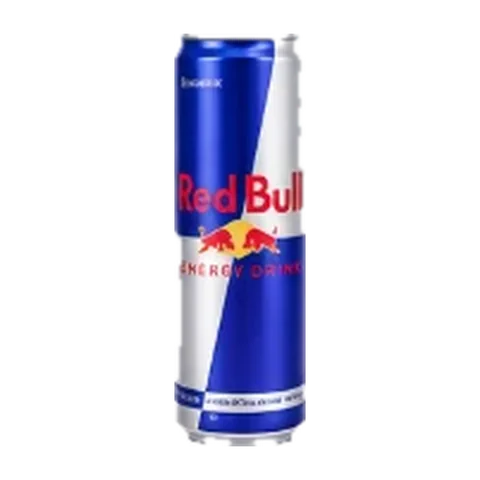
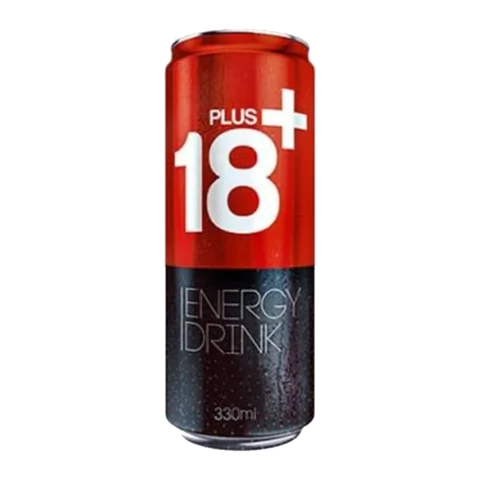
Uzbegim: energetiklar almashtirildi (18+, Flash Up, Adrenaline Rush)
Claude-Session: https://claude.ai/code/session_0158RahCUjwmF3oqXHuWeBEs

Changed region(s): [[0.3438, 0.0625, 0.6562, 0.9375]]

diff --git a/uzbegim/index.html b/uzbegim/index.html
@@ -591,7 +591,7 @@ const CATS=[
  {id:"combo",ic:"combo",e:"🍱",uz:"Kombo",ru:"Комбо"},{id:"burger",ic:"burger",e:"🍔",uz:"Burger",ru:"Бургер"},{id:"lavash",ic:"lavash",e:"🌯",uz:"Lavash & sendvich",ru:"Лаваш & сэндвич"},{id:"hotdog",ic:"hotdog",e:"🌭",uz:"Hot-dog",ru:"Хот-дог"},{id:"pizza",ic:"pizza",e:"🍕",uz:"Pitsa",ru:"Пицца"},
  {id:"chicken",ic:"chicken",e:"🍗",uz:"Tovuq",ru:"Курица"},{id:"snack",ic:"fries",e:"🍟",uz:"Fri",ru:"Фри"},{id:"drink",ic:"drink",e:"🥤",uz:"Ichimlik",ru:"Напитки"},
 ];
-const P=[{"id":"c1","cat":"combo","img":true,"e":"🍱","n":{"uz":"Uzbegim kombo","ru":"Узбегим комбо"},"d":{"uz":"Chizburger, o'rta fri, Coca-Cola 0.5 L","ru":"Чизбургер, фри средний, Coca-Cola 0.5 л"},"v":[{"l":{"uz":"1 kishilik","ru":"На 1 персону"},"s":{"uz":"620 g","ru":"620 г"},"p":49000}],"badge":"hit","old":55000},{"id":"c2","cat":"combo","img":true,"e":"🌯","n":{"uz":"Lavash kombo","ru":"Лаваш комбо"},"d":{"uz":"Go'shtli lavash, o'rta fri, Coca-Cola 0.5 L","ru":"Лаваш с мясом, фри средний, Coca-Cola 0.5 л"},"v":[{"l":{"uz":"1 kishilik","ru":"На 1 персону"},"s":{"uz":"740 g","ru":"740 г"},"p":52000}],"badge":"","old":59000},{"id":"c3","cat":"combo","img":true,"e":"🎉","n":{"uz":"Do'stlar to'plami","ru":"Набор «Друзья»"},"d":{"uz":"4 lavash, 2 katta fri, Coca-Cola va Fanta 1.5 L","ru":"4 лаваша, 2 больших фри, Coca-Cola и Fanta 1.5 л"},"v":[{"l":{"uz":"4 kishilik","ru":"На 4 персоны"},"s":{"uz":"2.1 kg","ru":"2,1 кг"},"p":169000}],"badge":"hot","old":198000},{"id":"c4","cat":"combo","img":true,"e":"👨👩👧","n":{"uz":"Oilaviy kombo","ru":"Семейное комбо"},"d":{"uz":"Pepperoni 35 sm, 8 qanot, 2 fri, Coca-Cola 1.5 L","ru":"Пепперони 35 см, 8 крыльев, 2 фри, Coca-Cola 1.5 л"},"v":[{"l":{"uz":"4–5 kishilik","ru":"На 4–5 персон"},"s":{"uz":"2.4 kg","ru":"2,4 кг"},"p":179000}],"badge":"","old":212000},{"id":"c5","cat":"combo","img":true,"e":"🧒","n":{"uz":"Bolajon kombo","ru":"Детское комбо"},"d":{"uz":"6 naggets, kichik fri, qulupnayli milkshake","ru":"6 наггетсов, фри маленький, клубничный милкшейк"},"v":[{"l":{"uz":"1 bola","ru":"На 1 ребёнка"},"s":{"uz":"450 g","ru":"450 г"},"p":45000}],"badge":"new","old":54000},{"id":"b1","cat":"burger","img":true,"e":"🍔","n":{"uz":"Chizburger","ru":"Чизбургер"},"d":{"uz":"Mol go'shti kotleti, chedder, pomidor, piyoz","ru":"Говяжья котлета, чеддер, томат, лук"},"v":[{"l":{"uz":"Standart","ru":"Стандарт"},"s":{"uz":"200 g","ru":"200 г"},"p":29000},{"l":{"uz":"Dabl","ru":"Дабл"},"s":{"uz":"290 g","ru":"290 г"},"p":39000}],"badge":"hit","old":0},{"id":"b2","cat":"burger","img":true,"e":"🍔","n":{"uz":"Gamburger","ru":"Гамбургер"},"d":{"uz":"Mol go'shti kotleti, salat, pomidor, sous","ru":"Говяжья котлета, салат, томат, соус"},"v":[{"l":{"uz":"Standart","ru":"Стандарт"},"s":{"uz":"190 g","ru":"190 г"},"p":27000},{"l":{"uz":"Dabl","ru":"Дабл"},"s":{"uz":"270 g","ru":"270 г"},"p":36000}],"badge":"","old":0},{"id":"b3","cat":"burger","img":true,"e":"🍔","n":{"uz":"Dabl Uzbegim","ru":"Дабл Узбегим"},"d":{"uz":"2 kotlet, 2 qavat chedder, maxfiy sous","ru":"2 котлеты, двойной чеддер, секретный соус"},"v":[{"l":{"uz":"Standart","ru":"Стандарт"},"s":{"uz":"320 g","ru":"320 г"},"p":45000}],"badge":"hit","old":0},{"id":"b4","cat":"burger","img":true,"e":"🥓","n":{"uz":"Bekon burger","ru":"Бекон бургер"},"d":{"uz":"Kotlet, qarsildoq bekon (mol), chedder, BBQ","ru":"Котлета, хрустящий бекон (говяжий), чеддер, BBQ"},"v":[{"l":{"uz":"Standart","ru":"Стандарт"},"s":{"uz":"240 g","ru":"240 г"},"p":39000}],"badge":"new","old":0},{"id":"b5","cat":"burger","img":true,"e":"🍔","n":{"uz":"Big Uzbegim","ru":"Биг Узбегим"},"d":{"uz":"2 katta kotlet, chedder, bodring, maxsus sous","ru":"2 большие котлеты, чеддер, огурцы, фирменный соус"},"v":[{"l":{"uz":"Standart","ru":"Стандарт"},"s":{"uz":"360 g","ru":"360 г"},"p":49000}],"badge":"","old":0},{"id":"b6","cat":"burger","img":true,"e":"🍗","n":{"uz":"Chiken burger","ru":"Чикен бургер"},"d":{"uz":"Qarsildoq tovuq filesi, salat, mayonez","ru":"Хрустящее куриное филе, салат, майонез"},"v":[{"l":{"uz":"Standart","ru":"Стандарт"},"s":{"uz":"210 g","ru":"210 г"},"p":31000},{"l":{"uz":"Dabl","ru":"Дабл"},"s":{"uz":"300 g","ru":"300 г"},"p":41000}],"badge":"","old":0},{"id":"b7","cat":"burger","img":true,"e":"🌶","n":{"uz":"Achchiq chiken","ru":"Острый чикен"},"d":{"uz":"Achchiq panirovkada tovuq, halapenyo sous","ru":"Курица в острой панировке, соус халапеньо"},"v":[{"l":{"uz":"Standart","ru":"Стандарт"},"s":{"uz":"220 g","ru":"220 г"},"p":33000}],"badge":"hot","old":0},{"id":"b8","cat":"burger","img":true,"e":"🍗","n":{"uz":"Krispi chiken","ru":"Криспи чикен"},"d":{"uz":"Katta qarsildoq file, pishloq, salat","ru":"Большое хрустящее филе, сыр, салат"},"v":[{"l":{"uz":"Standart","ru":"Стандарт"},"s":{"uz":"230 g","ru":"230 г"},"p":34000}],"badge":"","old":0},{"id":"l1","cat":"lavash","img":true,"e":"🌯","n":{"uz":"Go'shtli lavash","ru":"Лаваш с мясом"},"d":{"uz":"Mol go'shti, chipslar, pomidor, sous","ru":"Говядина, чипсы, томаты, соус"},"v":[{"l":{"uz":"Mini","ru":"Мини"},"s":{"uz":"220 g","ru":"220 г"},"p":26000},{"l":{"uz":"Standart","ru":"Стандарт"},"s":{"uz":"320 g","ru":"320 г"},"p":33000},{"l":{"uz":"Katta","ru":"Большой"},"s":{"uz":"420 g","ru":"420 г"},"p":40000}],"badge":"hit","old":0},{"id":"l2","cat":"lavash","img":true,"e":"🌯","n":{"uz":"Tovuqli lavash","ru":"Лаваш с курицей"},"d":{"uz":"Tovuq, bodring, pomidor, pishloqli sous","ru":"Курица, огурцы, томаты, сырный соус"},"v":[{"l":{"uz":"Mini","ru":"Мини"},"s":{"uz":"220 g","ru":"220 г"},"p":23000},{"l":{"uz":"Standart","ru":"Стандарт"},"s":{"uz":"320 g","ru":"320 г"},"p":30000},{"l":{"uz":"Katta","ru":"Большой"},"s":{"uz":"420 g","ru":"420 г"},"p":36000}],"badge":"","old":0},{"id":"l3","cat":"lavash","img":true,"e":"🧀","n":{"uz":"Pishloqli lavash","ru":"Сырный лаваш"},"d":{"uz":"Go'sht, ikki baravar pishloq, fri ichida","ru":"Мясо, двойной сыр, фри внутри"},"v":[{"l":{"uz":"Standart","ru":"Стандарт"},"s":{"uz":"340 g","ru":"340 г"},"p":35000},{"l":{"uz":"Katta","ru":"Большой"},"s":{"uz":"440 g","ru":"440 г"},"p":42000}],"badge":"","old":0},{"id":"l4","cat":"lavash","img":true,"e":"🌶","n":{"uz":"Achchiq lavash","ru":"Острый лаваш"},"d":{"uz":"Go'sht, achchiq qalampir, maxsus sous","ru":"Мясо, острый перец, фирменный соус"},"v":[{"l":{"uz":"Standart","ru":"Стандарт"},"s":{"uz":"320 g","ru":"320 г"},"p":34000},{"l":{"uz":"Katta","ru":"Большой"},"s":{"uz":"420 g","ru":"420 г"},"p":41000}],"badge":"hot","old":0},{"id":"l5","cat":"lavash","img":true,"e":"🌯","n":{"uz":"Donar","ru":"Донар"},"d":{"uz":"Go'sht, sabzavotlar, sarimsoqli sous","ru":"Мясо, овощи, чесночный соус"},"v":[{"l":{"uz":"Standart","ru":"Стандарт"},"s":{"uz":"300 g","ru":"300 г"},"p":32000},{"l":{"uz":"Katta","ru":"Большой"},"s":{"uz":"400 g","ru":"400 г"},"p":39000}],"badge":"","old":0},{"id":"l6","cat":"lavash","img":true,"e":"🫓","n":{"uz":"Kesadilya","ru":"Кесадилья"},"d":{"uz":"Tovuq, chedder, qalampir, tortilya","ru":"Курица, чеддер, перец, тортилья"},"v":[{"l":{"uz":"Standart","ru":"Стандарт"},"s":{"uz":"260 g","ru":"260 г"},"p":33000}],"badge":"new","old":0},{"id":"l7","cat":"lavash","img":true,"e":"🥪","n":{"uz":"Klab sendvich","ru":"Клаб сэндвич"},"d":{"uz":"Tovuq, mol go'shti vetchinasi, pishloq, salat","ru":"Курица, говяжья ветчина, сыр, салат"},"v":[{"l":{"uz":"Standart","ru":"Стандарт"},"s":{"uz":"250 g","ru":"250 г"},"p":32000}],"badge":"","old":0},{"id":"l8","cat":"lavash","img":true,"e":"🥪","n":{"uz":"Tost sendvich","ru":"Тост сэндвич"},"d":{"uz":"Qovurilgan non, vetchina, pishloq","ru":"Поджаренный хлеб, ветчина, сыр"},"v":[{"l":{"uz":"Standart","ru":"Стандарт"},"s":{"uz":"210 g","ru":"210 г"},"p":26000}],"badge":"","old":0},{"id":"h1","cat":"hotdog","img":true,"e":"🌭","n":{"uz":"Klassik hot-dog","ru":"Классический хот-дог"},"d":{"uz":"Sosiska, ketchup, xantal","ru":"Сосиска, кетчуп, горчица"},"v":[{"l":{"uz":"Standart","ru":"Стандарт"},"s":{"uz":"160 g","ru":"160 г"},"p":15000},{"l":{"uz":"Dabl","ru":"Дабл"},"s":{"uz":"240 g","ru":"240 г"},"p":22000}],"badge":"","old":0},{"id":"h2","cat":"hotdog","img":true,"e":"🌭","n":{"uz":"Pishloqli hot-dog","ru":"Сырный хот-дог"},"d":{"uz":"Sosiska, pishloqli sous, qovurilgan piyoz","ru":"Сосиска, сырный соус, жареный лук"},"v":[{"l":{"uz":"Standart","ru":"Стандарт"},"s":{"uz":"190 g","ru":"190 г"},"p":19000}],"badge":"hit","old":0},{"id":"h3","cat":"hotdog","img":true,"e":"🌭","n":{"uz":"Hot-dog XXL","ru":"Хот-дог XXL"},"d":{"uz":"Uzun sosiska, ketchup, xantal, bodring","ru":"Длинная сосиска, кетчуп, горчица, огурцы"},"v":[{"l":{"uz":"Standart","ru":"Стандарт"},"s":{"uz":"250 g","ru":"250 г"},"p":24000}],"badge":"","old":0},{"id":"p1","cat":"pizza","img":true,"e":"🍕","n":{"uz":"Pepperoni","ru":"Пепперони"},"d":{"uz":"Pepperoni (mol), motsarella, tomat sousi","ru":"Пепперони (говяжья), моцарелла, томатный соус"},"v":[{"l":{"uz":"25 sm","ru":"25 см"},"s":{"uz":"520 g","ru":"520 г"},"p":55000},{"l":{"uz":"30 sm","ru":"30 см"},"s":{"uz":"720 g","ru":"720 г"},"p":72000},{"l":{"uz":"35 sm","ru":"35 см"},"s":{"uz":"950 g","ru":"950 г"},"p":89000}],"badge":"hit","old":0},{"id":"p2","cat":"pizza","img":true,"e":"🍕","n":{"uz":"Margarita","ru":"Маргарита"},"d":{"uz":"Motsarella, pomidor, rayhon","ru":"Моцарелла, томаты, базилик"},"v":[{"l":{"uz":"25 sm","ru":"25 см"},"s":{"uz":"480 g","ru":"480 г"},"p":49000},{"l":{"uz":"30 sm","ru":"30 см"},"s":{"uz":"650 g","ru":"650 г"},"p":65000},{"l":{"uz":"35 sm","ru":"35 см"},"s":{"uz":"880 g","ru":"880 г"},"p":79000}],"badge":"","old":0},{"id":"k1","cat":"chicken","img":true,"e":"🍗","n":{"uz":"Qanotlar BBQ","ru":"Крылья BBQ"},"d":{"uz":"Qarsildoq qanotlar, BBQ sousida","ru":"Хрустящие крылья в соусе BBQ"},"v":[{"l":{"uz":"4 dona","ru":"4 шт"},"s":{"uz":"180 g","ru":"180 г"},"p":26000},{"l":{"uz":"8 dona","ru":"8 шт"},"s":{"uz":"360 g","ru":"360 г"},"p":48000},{"l":{"uz":"12 dona","ru":"12 шт"},"s":{"uz":"540 g","ru":"540 г"},"p":68000}],"badge":"hot","old":0},{"id":"k2","cat":"chicken","img":true,"e":"🍗","n":{"uz":"Strips","ru":"Стрипсы"},"d":{"uz":"Qarsildoq tovuq filesi","ru":"Хрустящее куриное филе"},"v":[{"l":{"uz":"3 dona","ru":"3 шт"},"s":{"uz":"120 g","ru":"120 г"},"p":22000},{"l":{"uz":"6 dona","ru":"6 шт"},"s":{"uz":"240 g","ru":"240 г"},"p":41000},{"l":{"uz":"9 dona","ru":"9 шт"},"s":{"uz":"360 g","ru":"360 г"},"p":58000}],"badge":"","old":0},{"id":"k3","cat":"chicken","img":true,"e":"🔥","n":{"uz":"Achchiq qanotlar","ru":"Острые крылья"},"d":{"uz":"Achchiq glazurda qanotlar","ru":"Крылья в острой глазури"},"v":[{"l":{"uz":"6 dona","ru":"6 шт"},"s":{"uz":"270 g","ru":"270 г"},"p":38000},{"l":{"uz":"12 dona","ru":"12 шт"},"s":{"uz":"540 g","ru":"540 г"},"p":70000}],"badge":"hot","old":0},{"id":"n1","cat":"snack","img":true,"e":"🍟","n":{"uz":"Kartoshka fri","ru":"Картофель фри"},"d":{"uz":"Oltin rangli va qarsildoq","ru":"Золотистый и хрустящий"},"v":[{"l":{"uz":"Kichik","ru":"Маленький"},"s":{"uz":"90 g","ru":"90 г"},"p":13000},{"l":{"uz":"O'rta","ru":"Средний"},"s":{"uz":"120 g","ru":"120 г"},"p":16000},{"l":{"uz":"Katta","ru":"Большой"},"s":{"uz":"160 g","ru":"160 г"},"p":19000}],"badge":"hit","old":0},{"id":"n2","cat":"snack","img":true,"e":"🍟","n":{"uz":"Fri Max","ru":"Фри Макс"},"d":{"uz":"Katta qutida, 2 ta sous bilan","ru":"В большой коробке, с 2 соусами"},"v":[{"l":{"uz":"Standart","ru":"Стандарт"},"s":{"uz":"220 g","ru":"220 г"},"p":24000}],"badge":"","old":0},{"id":"n3","cat":"snack","img":true,"e":"🍗","n":{"uz":"Naggets","ru":"Наггетсы"},"d":{"uz":"Tovuq naggetslari, sous bilan","ru":"Куриные наггетсы, с соусом"},"v":[{"l":{"uz":"6 dona","ru":"6 шт"},"s":{"uz":"110 g","ru":"110 г"},"p":19000},{"l":{"uz":"9 dona","ru":"9 шт"},"s":{"uz":"165 g","ru":"165 г"},"p":26000},{"l":{"uz":"12 dona","ru":"12 шт"},"s":{"uz":"220 g","ru":"220 г"},"p":33000}],"badge":"","old":0},{"id":"n4","cat":"snack","img":true,"e":"🧅","n":{"uz":"Piyoz halqalari","ru":"Луковые кольца"},"d":{"uz":"Qarsildoq, sous bilan","ru":"Хрустящие, с соусом"},"v":[{"l":{"uz":"8 dona","ru":"8 шт"},"s":{"uz":"120 g","ru":"120 г"},"p":18000},{"l":{"uz":"12 dona","ru":"12 шт"},"s":{"uz":"180 g","ru":"180 г"},"p":25000}],"badge":"","old":0},{"id":"d1","cat":"drink","img":true,"e":"🥤","n":{"uz":"Coca-Cola","ru":"Coca-Cola"},"d":{"uz":"Gazli ichimlik","ru":"Газированный напиток"},"v":[{"l":{"uz":"0.5 L","ru":"0.5 л"},"s":null,"p":10000},{"l":{"uz":"1 L","ru":"1 л"},"s":null,"p":14000},{"l":{"uz":"1.5 L","ru":"1.5 л"},"s":null,"p":17000}],"badge":"hit","old":0},{"id":"d2","cat":"drink","img":true,"e":"🥤","n":{"uz":"Fanta","ru":"Fanta"},"d":{"uz":"Apelsin ta'mli","ru":"Со вкусом апельсина"},"v":[{"l":{"uz":"0.5 L","ru":"0.5 л"},"s":null,"p":10000},{"l":{"uz":"1 L","ru":"1 л"},"s":null,"p":14000},{"l":{"uz":"1.5 L","ru":"1.5 л"},"s":null,"p":17000}],"badge":"","old":0},{"id":"d3","cat":"drink","img":true,"e":"🥤","n":{"uz":"Sprite","ru":"Sprite"},"d":{"uz":"Limon va laym ta'mli","ru":"Со вкусом лимона и лайма"},"v":[{"l":{"uz":"0.5 L","ru":"0.5 л"},"s":null,"p":10000},{"l":{"uz":"1 L","ru":"1 л"},"s":null,"p":14000},{"l":{"uz":"1.5 L","ru":"1.5 л"},"s":null,"p":17000}],"badge":"","old":0},{"id":"d4","cat":"drink","img":true,"e":"🥤","n":{"uz":"Pepsi","ru":"Pepsi"},"d":{"uz":"Gazli ichimlik","ru":"Газированный напиток"},"v":[{"l":{"uz":"0.5 L","ru":"0.5 л"},"s":null,"p":9000},{"l":{"uz":"1 L","ru":"1 л"},"s":null,"p":13000},{"l":{"uz":"1.5 L","ru":"1.5 л"},"s":null,"p":16000}],"badge":"","old":0},{"id":"d5","cat":"drink","img":true,"e":"🥤","n":{"uz":"7UP","ru":"7UP"},"d":{"uz":"Limon-laym","ru":"Лимон-лайм"},"v":[{"l":{"uz":"0.5 L","ru":"0.5 л"},"s":null,"p":9000},{"l":{"uz":"1 L","ru":"1 л"},"s":null,"p":13000},{"l":{"uz":"1.5 L","ru":"1.5 л"},"s":null,"p":16000}],"badge":"","old":0},{"id":"d7","cat":"drink","img":true,"e":"💧","n":{"uz":"Hydrolife","ru":"Hydrolife"},"d":{"uz":"Gazsiz suv","ru":"Вода без газа"},"v":[{"l":{"uz":"0.5 L","ru":"0.5 л"},"s":null,"p":4000},{"l":{"uz":"1 L","ru":"1 л"},"s":null,"p":6000},{"l":{"uz":"1.5 L","ru":"1.5 л"},"s":null,"p":7000}],"badge":"","old":0},{"id":"d8","cat":"drink","img":true,"e":"💧","n":{"uz":"BonAqua","ru":"BonAqua"},"d":{"uz":"Gazsiz suv","ru":"Вода без газа"},"v":[{"l":{"uz":"0.5 L","ru":"0.5 л"},"s":null,"p":5000},{"l":{"uz":"1 L","ru":"1 л"},"s":null,"p":7000},{"l":{"uz":"1.5 L","ru":"1.5 л"},"s":null,"p":8000}],"badge":"","old":0},{"id":"d9","cat":"drink","img":true,"e":"🧃","n":{"uz":"Rich apelsin","ru":"Rich апельсин"},"d":{"uz":"100% sharbat","ru":"100% сок"},"v":[{"l":{"uz":"1 L","ru":"1 л"},"s":null,"p":22000}],"badge":"","old":0},{"id":"d10","cat":"drink","img":true,"e":"🧃","n":{"uz":"Sandora apelsin","ru":"Sandora апельсин"},"d":{"uz":"Sharbat","ru":"Сок"},"v":[{"l":{"uz":"0.95 L","ru":"0.95 л"},"s":null,"p":19000}],"badge":"","old":0},{"id":"d11","cat":"drink","img":true,"e":"⚡","n":{"uz":"Red Bull","ru":"Red Bull"},"d":{"uz":"Energetik ichimlik","ru":"Энергетический напиток"},"v":[{"l":{"uz":"0.25 L","ru":"0.25 л"},"s":null,"p":21000},{"l":{"uz":"0.473 L","ru":"0.473 л"},"s":null,"p":32000}],"badge":"","old":0},{"id":"d12","cat":"drink","img":true,"e":"⚡","n":{"uz":"Monster","ru":"Monster"},"d":{"uz":"Energetik ichimlik","ru":"Энергетический напиток"},"v":[{"l":{"uz":"0.5 L","ru":"0.5 л"},"s":null,"p":25000}],"badge":"","old":0}].map((p,i)=>({...p,rate:(4.5+((i*7)%5)/10).toFixed(1),votes:80+(i*37)%400}));
+const P=[{"id":"c1","cat":"combo","img":true,"e":"🍱","n":{"uz":"Uzbegim kombo","ru":"Узбегим комбо"},"d":{"uz":"Chizburger, o'rta fri, Coca-Cola 0.5 L","ru":"Чизбургер, фри средний, Coca-Cola 0.5 л"},"v":[{"l":{"uz":"1 kishilik","ru":"На 1 персону"},"s":{"uz":"620 g","ru":"620 г"},"p":49000}],"badge":"hit","old":55000},{"id":"c2","cat":"combo","img":true,"e":"🌯","n":{"uz":"Lavash kombo","ru":"Лаваш комбо"},"d":{"uz":"Go'shtli lavash, o'rta fri, Coca-Cola 0.5 L","ru":"Лаваш с мясом, фри средний, Coca-Cola 0.5 л"},"v":[{"l":{"uz":"1 kishilik","ru":"На 1 персону"},"s":{"uz":"740 g","ru":"740 г"},"p":52000}],"badge":"","old":59000},{"id":"c3","cat":"combo","img":true,"e":"🎉","n":{"uz":"Do'stlar to'plami","ru":"Набор «Друзья»"},"d":{"uz":"4 lavash, 2 katta fri, Coca-Cola va Fanta 1.5 L","ru":"4 лаваша, 2 больших фри, Coca-Cola и Fanta 1.5 л"},"v":[{"l":{"uz":"4 kishilik","ru":"На 4 персоны"},"s":{"uz":"2.1 kg","ru":"2,1 кг"},"p":169000}],"badge":"hot","old":198000},{"id":"c4","cat":"combo","img":true,"e":"👨👩👧","n":{"uz":"Oilaviy kombo","ru":"Семейное комбо"},"d":{"uz":"Pepperoni 35 sm, 8 qanot, 2 fri, Coca-Cola 1.5 L","ru":"Пепперони 35 см, 8 крыльев, 2 фри, Coca-Cola 1.5 л"},"v":[{"l":{"uz":"4–5 kishilik","ru":"На 4–5 персон"},"s":{"uz":"2.4 kg","ru":"2,4 кг"},"p":179000}],"badge":"","old":212000},{"id":"c5","cat":"combo","img":true,"e":"🧒","n":{"uz":"Bolajon kombo","ru":"Детское комбо"},"d":{"uz":"6 naggets, kichik fri, qulupnayli milkshake","ru":"6 наггетсов, фри маленький, клубничный милкшейк"},"v":[{"l":{"uz":"1 bola","ru":"На 1 ребёнка"},"s":{"uz":"450 g","ru":"450 г"},"p":45000}],"badge":"new","old":54000},{"id":"b1","cat":"burger","img":true,"e":"🍔","n":{"uz":"Chizburger","ru":"Чизбургер"},"d":{"uz":"Mol go'shti kotleti, chedder, pomidor, piyoz","ru":"Говяжья котлета, чеддер, томат, лук"},"v":[{"l":{"uz":"Standart","ru":"Стандарт"},"s":{"uz":"200 g","ru":"200 г"},"p":29000},{"l":{"uz":"Dabl","ru":"Дабл"},"s":{"uz":"290 g","ru":"290 г"},"p":39000}],"badge":"hit","old":0},{"id":"b2","cat":"burger","img":true,"e":"🍔","n":{"uz":"Gamburger","ru":"Гамбургер"},"d":{"uz":"Mol go'shti kotleti, salat, pomidor, sous","ru":"Говяжья котлета, салат, томат, соус"},"v":[{"l":{"uz":"Standart","ru":"Стандарт"},"s":{"uz":"190 g","ru":"190 г"},"p":27000},{"l":{"uz":"Dabl","ru":"Дабл"},"s":{"uz":"270 g","ru":"270 г"},"p":36000}],"badge":"","old":0},{"id":"b3","cat":"burger","img":true,"e":"🍔","n":{"uz":"Dabl Uzbegim","ru":"Дабл Узбегим"},"d":{"uz":"2 kotlet, 2 qavat chedder, maxfiy sous","ru":"2 котлеты, двойной чеддер, секретный соус"},"v":[{"l":{"uz":"Standart","ru":"Стандарт"},"s":{"uz":"320 g","ru":"320 г"},"p":45000}],"badge":"hit","old":0},{"id":"b4","cat":"burger","img":true,"e":"🥓","n":{"uz":"Bekon burger","ru":"Бекон бургер"},"d":{"uz":"Kotlet, qarsildoq bekon (mol), chedder, BBQ","ru":"Котлета, хрустящий бекон (говяжий), чеддер, BBQ"},"v":[{"l":{"uz":"Standart","ru":"Стандарт"},"s":{"uz":"240 g","ru":"240 г"},"p":39000}],"badge":"new","old":0},{"id":"b5","cat":"burger","img":true,"e":"🍔","n":{"uz":"Big Uzbegim","ru":"Биг Узбегим"},"d":{"uz":"2 katta kotlet, chedder, bodring, maxsus sous","ru":"2 большие котлеты, чеддер, огурцы, фирменный соус"},"v":[{"l":{"uz":"Standart","ru":"Стандарт"},"s":{"uz":"360 g","ru":"360 г"},"p":49000}],"badge":"","old":0},{"id":"b6","cat":"burger","img":true,"e":"🍗","n":{"uz":"Chiken burger","ru":"Чикен бургер"},"d":{"uz":"Qarsildoq tovuq filesi, salat, mayonez","ru":"Хрустящее куриное филе, салат, майонез"},"v":[{"l":{"uz":"Standart","ru":"Стандарт"},"s":{"uz":"210 g","ru":"210 г"},"p":31000},{"l":{"uz":"Dabl","ru":"Дабл"},"s":{"uz":"300 g","ru":"300 г"},"p":41000}],"badge":"","old":0},{"id":"b7","cat":"burger","img":true,"e":"🌶","n":{"uz":"Achchiq chiken","ru":"Острый чикен"},"d":{"uz":"Achchiq panirovkada tovuq, halapenyo sous","ru":"Курица в острой панировке, соус халапеньо"},"v":[{"l":{"uz":"Standart","ru":"Стандарт"},"s":{"uz":"220 g","ru":"220 г"},"p":33000}],"badge":"hot","old":0},{"id":"b8","cat":"burger","img":true,"e":"🍗","n":{"uz":"Krispi chiken","ru":"Криспи чикен"},"d":{"uz":"Katta qarsildoq file, pishloq, salat","ru":"Большое хрустящее филе, сыр, салат"},"v":[{"l":{"uz":"Standart","ru":"Стандарт"},"s":{"uz":"230 g","ru":"230 г"},"p":34000}],"badge":"","old":0},{"id":"l1","cat":"lavash","img":true,"e":"🌯","n":{"uz":"Go'shtli lavash","ru":"Лаваш с мясом"},"d":{"uz":"Mol go'shti, chipslar, pomidor, sous","ru":"Говядина, чипсы, томаты, соус"},"v":[{"l":{"uz":"Mini","ru":"Мини"},"s":{"uz":"220 g","ru":"220 г"},"p":26000},{"l":{"uz":"Standart","ru":"Стандарт"},"s":{"uz":"320 g","ru":"320 г"},"p":33000},{"l":{"uz":"Katta","ru":"Большой"},"s":{"uz":"420 g","ru":"420 г"},"p":40000}],"badge":"hit","old":0},{"id":"l2","cat":"lavash","img":true,"e":"🌯","n":{"uz":"Tovuqli lavash","ru":"Лаваш с курицей"},"d":{"uz":"Tovuq, bodring, pomidor, pishloqli sous","ru":"Курица, огурцы, томаты, сырный соус"},"v":[{"l":{"uz":"Mini","ru":"Мини"},"s":{"uz":"220 g","ru":"220 г"},"p":23000},{"l":{"uz":"Standart","ru":"Стандарт"},"s":{"uz":"320 g","ru":"320 г"},"p":30000},{"l":{"uz":"Katta","ru":"Большой"},"s":{"uz":"420 g","ru":"420 г"},"p":36000}],"badge":"","old":0},{"id":"l3","cat":"lavash","img":true,"e":"🧀","n":{"uz":"Pishloqli lavash","ru":"Сырный лаваш"},"d":{"uz":"Go'sht, ikki baravar pishloq, fri ichida","ru":"Мясо, двойной сыр, фри внутри"},"v":[{"l":{"uz":"Standart","ru":"Стандарт"},"s":{"uz":"340 g","ru":"340 г"},"p":35000},{"l":{"uz":"Katta","ru":"Большой"},"s":{"uz":"440 g","ru":"440 г"},"p":42000}],"badge":"","old":0},{"id":"l4","cat":"lavash","img":true,"e":"🌶","n":{"uz":"Achchiq lavash","ru":"Острый лаваш"},"d":{"uz":"Go'sht, achchiq qalampir, maxsus sous","ru":"Мясо, острый перец, фирменный соус"},"v":[{"l":{"uz":"Standart","ru":"Стандарт"},"s":{"uz":"320 g","ru":"320 г"},"p":34000},{"l":{"uz":"Katta","ru":"Большой"},"s":{"uz":"420 g","ru":"420 г"},"p":41000}],"badge":"hot","old":0},{"id":"l5","cat":"lavash","img":true,"e":"🌯","n":{"uz":"Donar","ru":"Донар"},"d":{"uz":"Go'sht, sabzavotlar, sarimsoqli sous","ru":"Мясо, овощи, чесночный соус"},"v":[{"l":{"uz":"Standart","ru":"Стандарт"},"s":{"uz":"300 g","ru":"300 г"},"p":32000},{"l":{"uz":"Katta","ru":"Большой"},"s":{"uz":"400 g","ru":"400 г"},"p":39000}],"badge":"","old":0},{"id":"l6","cat":"lavash","img":true,"e":"🫓","n":{"uz":"Kesadilya","ru":"Кесадилья"},"d":{"uz":"Tovuq, chedder, qalampir, tortilya","ru":"Курица, чеддер, перец, тортилья"},"v":[{"l":{"uz":"Standart","ru":"Стандарт"},"s":{"uz":"260 g","ru":"260 г"},"p":33000}],"badge":"new","old":0},{"id":"l7","cat":"lavash","img":true,"e":"🥪","n":{"uz":"Klab sendvich","ru":"Клаб сэндвич"},"d":{"uz":"Tovuq, mol go'shti vetchinasi, pishloq, salat","ru":"Курица, говяжья ветчина, сыр, салат"},"v":[{"l":{"uz":"Standart","ru":"Стандарт"},"s":{"uz":"250 g","ru":"250 г"},"p":32000}],"badge":"","old":0},{"id":"l8","cat":"lavash","img":true,"e":"🥪","n":{"uz":"Tost sendvich","ru":"Тост сэндвич"},"d":{"uz":"Qovurilgan non, vetchina, pishloq","ru":"Поджаренный хлеб, ветчина, сыр"},"v":[{"l":{"uz":"Standart","ru":"Стандарт"},"s":{"uz":"210 g","ru":"210 г"},"p":26000}],"badge":"","old":0},{"id":"h1","cat":"hotdog","img":true,"e":"🌭","n":{"uz":"Klassik hot-dog","ru":"Классический хот-дог"},"d":{"uz":"Sosiska, ketchup, xantal","ru":"Сосиска, кетчуп, горчица"},"v":[{"l":{"uz":"Standart","ru":"Стандарт"},"s":{"uz":"160 g","ru":"160 г"},"p":15000},{"l":{"uz":"Dabl","ru":"Дабл"},"s":{"uz":"240 g","ru":"240 г"},"p":22000}],"badge":"","old":0},{"id":"h2","cat":"hotdog","img":true,"e":"🌭","n":{"uz":"Pishloqli hot-dog","ru":"Сырный хот-дог"},"d":{"uz":"Sosiska, pishloqli sous, qovurilgan piyoz","ru":"Сосиска, сырный соус, жареный лук"},"v":[{"l":{"uz":"Standart","ru":"Стандарт"},"s":{"uz":"190 g","ru":"190 г"},"p":19000}],"badge":"hit","old":0},{"id":"h3","cat":"hotdog","img":true,"e":"🌭","n":{"uz":"Hot-dog XXL","ru":"Хот-дог XXL"},"d":{"uz":"Uzun sosiska, ketchup, xantal, bodring","ru":"Длинная сосиска, кетчуп, горчица, огурцы"},"v":[{"l":{"uz":"Standart","ru":"Стандарт"},"s":{"uz":"250 g","ru":"250 г"},"p":24000}],"badge":"","old":0},{"id":"p1","cat":"pizza","img":true,"e":"🍕","n":{"uz":"Pepperoni","ru":"Пепперони"},"d":{"uz":"Pepperoni (mol), motsarella, tomat sousi","ru":"Пепперони (говяжья), моцарелла, томатный соус"},"v":[{"l":{"uz":"25 sm","ru":"25 см"},"s":{"uz":"520 g","ru":"520 г"},"p":55000},{"l":{"uz":"30 sm","ru":"30 см"},"s":{"uz":"720 g","ru":"720 г"},"p":72000},{"l":{"uz":"35 sm","ru":"35 см"},"s":{"uz":"950 g","ru":"950 г"},"p":89000}],"badge":"hit","old":0},{"id":"p2","cat":"pizza","img":true,"e":"🍕","n":{"uz":"Margarita","ru":"Маргарита"},"d":{"uz":"Motsarella, pomidor, rayhon","ru":"Моцарелла, томаты, базилик"},"v":[{"l":{"uz":"25 sm","ru":"25 см"},"s":{"uz":"480 g","ru":"480 г"},"p":49000},{"l":{"uz":"30 sm","ru":"30 см"},"s":{"uz":"650 g","ru":"650 г"},"p":65000},{"l":{"uz":"35 sm","ru":"35 см"},"s":{"uz":"880 g","ru":"880 г"},"p":79000}],"badge":"","old":0},{"id":"k1","cat":"chicken","img":true,"e":"🍗","n":{"uz":"Qanotlar BBQ","ru":"Крылья BBQ"},"d":{"uz":"Qarsildoq qanotlar, BBQ sousida","ru":"Хрустящие крылья в соусе BBQ"},"v":[{"l":{"uz":"4 dona","ru":"4 шт"},"s":{"uz":"180 g","ru":"180 г"},"p":26000},{"l":{"uz":"8 dona","ru":"8 шт"},"s":{"uz":"360 g","ru":"360 г"},"p":48000},{"l":{"uz":"12 dona","ru":"12 шт"},"s":{"uz":"540 g","ru":"540 г"},"p":68000}],"badge":"hot","old":0},{"id":"k2","cat":"chicken","img":true,"e":"🍗","n":{"uz":"Strips","ru":"Стрипсы"},"d":{"uz":"Qarsildoq tovuq filesi","ru":"Хрустящее куриное филе"},"v":[{"l":{"uz":"3 dona","ru":"3 шт"},"s":{"uz":"120 g","ru":"120 г"},"p":22000},{"l":{"uz":"6 dona","ru":"6 шт"},"s":{"uz":"240 g","ru":"240 г"},"p":41000},{"l":{"uz":"9 dona","ru":"9 шт"},"s":{"uz":"360 g","ru":"360 г"},"p":58000}],"badge":"","old":0},{"id":"k3","cat":"chicken","img":true,"e":"🔥","n":{"uz":"Achchiq qanotlar","ru":"Острые крылья"},"d":{"uz":"Achchiq glazurda qanotlar","ru":"Крылья в острой глазури"},"v":[{"l":{"uz":"6 dona","ru":"6 шт"},"s":{"uz":"270 g","ru":"270 г"},"p":38000},{"l":{"uz":"12 dona","ru":"12 шт"},"s":{"uz":"540 g","ru":"540 г"},"p":70000}],"badge":"hot","old":0},{"id":"n1","cat":"snack","img":true,"e":"🍟","n":{"uz":"Kartoshka fri","ru":"Картофель фри"},"d":{"uz":"Oltin rangli va qarsildoq","ru":"Золотистый и хрустящий"},"v":[{"l":{"uz":"Kichik","ru":"Маленький"},"s":{"uz":"90 g","ru":"90 г"},"p":13000},{"l":{"uz":"O'rta","ru":"Средний"},"s":{"uz":"120 g","ru":"120 г"},"p":16000},{"l":{"uz":"Katta","ru":"Большой"},"s":{"uz":"160 g","ru":"160 г"},"p":19000}],"badge":"hit","old":0},{"id":"n2","cat":"snack","img":true,"e":"🍟","n":{"uz":"Fri Max","ru":"Фри Макс"},"d":{"uz":"Katta qutida, 2 ta sous bilan","ru":"В большой коробке, с 2 соусами"},"v":[{"l":{"uz":"Standart","ru":"Стандарт"},"s":{"uz":"220 g","ru":"220 г"},"p":24000}],"badge":"","old":0},{"id":"n3","cat":"snack","img":true,"e":"🍗","n":{"uz":"Naggets","ru":"Наггетсы"},"d":{"uz":"Tovuq naggetslari, sous bilan","ru":"Куриные наггетсы, с соусом"},"v":[{"l":{"uz":"6 dona","ru":"6 шт"},"s":{"uz":"110 g","ru":"110 г"},"p":19000},{"l":{"uz":"9 dona","ru":"9 шт"},"s":{"uz":"165 g","ru":"165 г"},"p":26000},{"l":{"uz":"12 dona","ru":"12 шт"},"s":{"uz":"220 g","ru":"220 г"},"p":33000}],"badge":"","old":0},{"id":"n4","cat":"snack","img":true,"e":"🧅","n":{"uz":"Piyoz halqalari","ru":"Луковые кольца"},"d":{"uz":"Qarsildoq, sous bilan","ru":"Хрустящие, с соусом"},"v":[{"l":{"uz":"8 dona","ru":"8 шт"},"s":{"uz":"120 g","ru":"120 г"},"p":18000},{"l":{"uz":"12 dona","ru":"12 шт"},"s":{"uz":"180 g","ru":"180 г"},"p":25000}],"badge":"","old":0},{"id":"d1","cat":"drink","img":true,"e":"🥤","n":{"uz":"Coca-Cola","ru":"Coca-Cola"},"d":{"uz":"Gazli ichimlik","ru":"Газированный напиток"},"v":[{"l":{"uz":"0.5 L","ru":"0.5 л"},"s":null,"p":10000},{"l":{"uz":"1 L","ru":"1 л"},"s":null,"p":14000},{"l":{"uz":"1.5 L","ru":"1.5 л"},"s":null,"p":17000}],"badge":"hit","old":0},{"id":"d2","cat":"drink","img":true,"e":"🥤","n":{"uz":"Fanta","ru":"Fanta"},"d":{"uz":"Apelsin ta'mli","ru":"Со вкусом апельсина"},"v":[{"l":{"uz":"0.5 L","ru":"0.5 л"},"s":null,"p":10000},{"l":{"uz":"1 L","ru":"1 л"},"s":null,"p":14000},{"l":{"uz":"1.5 L","ru":"1.5 л"},"s":null,"p":17000}],"badge":"","old":0},{"id":"d3","cat":"drink","img":true,"e":"🥤","n":{"uz":"Sprite","ru":"Sprite"},"d":{"uz":"Limon va laym ta'mli","ru":"Со вкусом лимона и лайма"},"v":[{"l":{"uz":"0.5 L","ru":"0.5 л"},"s":null,"p":10000},{"l":{"uz":"1 L","ru":"1 л"},"s":null,"p":14000},{"l":{"uz":"1.5 L","ru":"1.5 л"},"s":null,"p":17000}],"badge":"","old":0},{"id":"d4","cat":"drink","img":true,"e":"🥤","n":{"uz":"Pepsi","ru":"Pepsi"},"d":{"uz":"Gazli ichimlik","ru":"Газированный напиток"},"v":[{"l":{"uz":"0.5 L","ru":"0.5 л"},"s":null,"p":9000},{"l":{"uz":"1 L","ru":"1 л"},"s":null,"p":13000},{"l":{"uz":"1.5 L","ru":"1.5 л"},"s":null,"p":16000}],"badge":"","old":0},{"id":"d5","cat":"drink","img":true,"e":"🥤","n":{"uz":"7UP","ru":"7UP"},"d":{"uz":"Limon-laym","ru":"Лимон-лайм"},"v":[{"l":{"uz":"0.5 L","ru":"0.5 л"},"s":null,"p":9000},{"l":{"uz":"1 L","ru":"1 л"},"s":null,"p":13000},{"l":{"uz":"1.5 L","ru":"1.5 л"},"s":null,"p":16000}],"badge":"","old":0},{"id":"d7","cat":"drink","img":true,"e":"💧","n":{"uz":"Hydrolife","ru":"Hydrolife"},"d":{"uz":"Gazsiz suv","ru":"Вода без газа"},"v":[{"l":{"uz":"0.5 L","ru":"0.5 л"},"s":null,"p":4000},{"l":{"uz":"1 L","ru":"1 л"},"s":null,"p":6000},{"l":{"uz":"1.5 L","ru":"1.5 л"},"s":null,"p":7000}],"badge":"","old":0},{"id":"d8","cat":"drink","img":true,"e":"💧","n":{"uz":"BonAqua","ru":"BonAqua"},"d":{"uz":"Gazsiz suv","ru":"Вода без газа"},"v":[{"l":{"uz":"0.5 L","ru":"0.5 л"},"s":null,"p":5000},{"l":{"uz":"1 L","ru":"1 л"},"s":null,"p":7000},{"l":{"uz":"1.5 L","ru":"1.5 л"},"s":null,"p":8000}],"badge":"","old":0},{"id":"d9","cat":"drink","img":true,"e":"🧃","n":{"uz":"Rich apelsin","ru":"Rich апельсин"},"d":{"uz":"100% sharbat","ru":"100% сок"},"v":[{"l":{"uz":"1 L","ru":"1 л"},"s":null,"p":22000}],"badge":"","old":0},{"id":"d10","cat":"drink","img":true,"e":"🧃","n":{"uz":"Sandora apelsin","ru":"Sandora апельсин"},"d":{"uz":"Sharbat","ru":"Сок"},"v":[{"l":{"uz":"0.95 L","ru":"0.95 л"},"s":null,"p":19000}],"badge":"","old":0},{"id":"d11","cat":"drink","img":true,"e":"⚡","n":{"uz":"18+ Plus Energy","ru":"18+ Plus Energy"},"d":{"uz":"Energetik ichimlik","ru":"Энергетический напиток"},"v":[{"l":{"uz":"0.33 L","ru":"0.33 л"},"s":null,"p":9000}],"badge":"","old":0},{"id":"d12","cat":"drink","img":true,"e":"⚡","n":{"uz":"Flash Up Energy","ru":"Flash Up Energy"},"d":{"uz":"Energetik ichimlik","ru":"Энергетический напиток"},"v":[{"l":{"uz":"0.25 L","ru":"0.25 л"},"s":null,"p":10000},{"l":{"uz":"0.45 L","ru":"0.45 л"},"s":null,"p":14000}],"badge":"hit","old":0},{"id":"d17","cat":"drink","img":true,"e":"⚡","n":{"uz":"Flash Up Rezavorli","ru":"Flash Up Ягодный микс"},"d":{"uz":"Rezavor mevalar ta'mli energetik","ru":"Энергетик со вкусом ягод"},"v":[{"l":{"uz":"0.45 L","ru":"0.45 л"},"s":null,"p":14000}],"badge":"new","old":0},{"id":"d18","cat":"drink","img":true,"e":"⚡","n":{"uz":"Adrenaline Rush","ru":"Adrenaline Rush"},"d":{"uz":"Energetik ichimlik","ru":"Энергетический напиток"},"v":[{"l":{"uz":"0.25 L","ru":"0.25 л"},"s":null,"p":14000},{"l":{"uz":"0.45 L","ru":"0.45 л"},"s":null,"p":19000}],"badge":"","old":0}].map((p,i)=>({...p,rate:(4.5+((i*7)%5)/10).toFixed(1),votes:80+(i*37)%400}));
 const byId=Object.fromEntries(P.map(p=>[p.id,p]));
 const SL=[{e:"🍔",bg:"radial-gradient(700px 400px at 80% 70%,rgba(255,122,0,.55),transparent 60%),linear-gradient(120deg,#1a120c,#2a1609)"},{e:"🍔",bg:"radial-gradient(700px 400px at 80% 70%,rgba(255,60,30,.5),transparent 60%),linear-gradient(120deg,#1a0f0c,#2b100a)"},{e:"🌯",bg:"radial-gradient(700px 400px at 80% 70%,rgba(255,170,40,.5),transparent 60%),linear-gradient(120deg,#16120a,#2a1d08)"}];
 const BRANCHES=[
